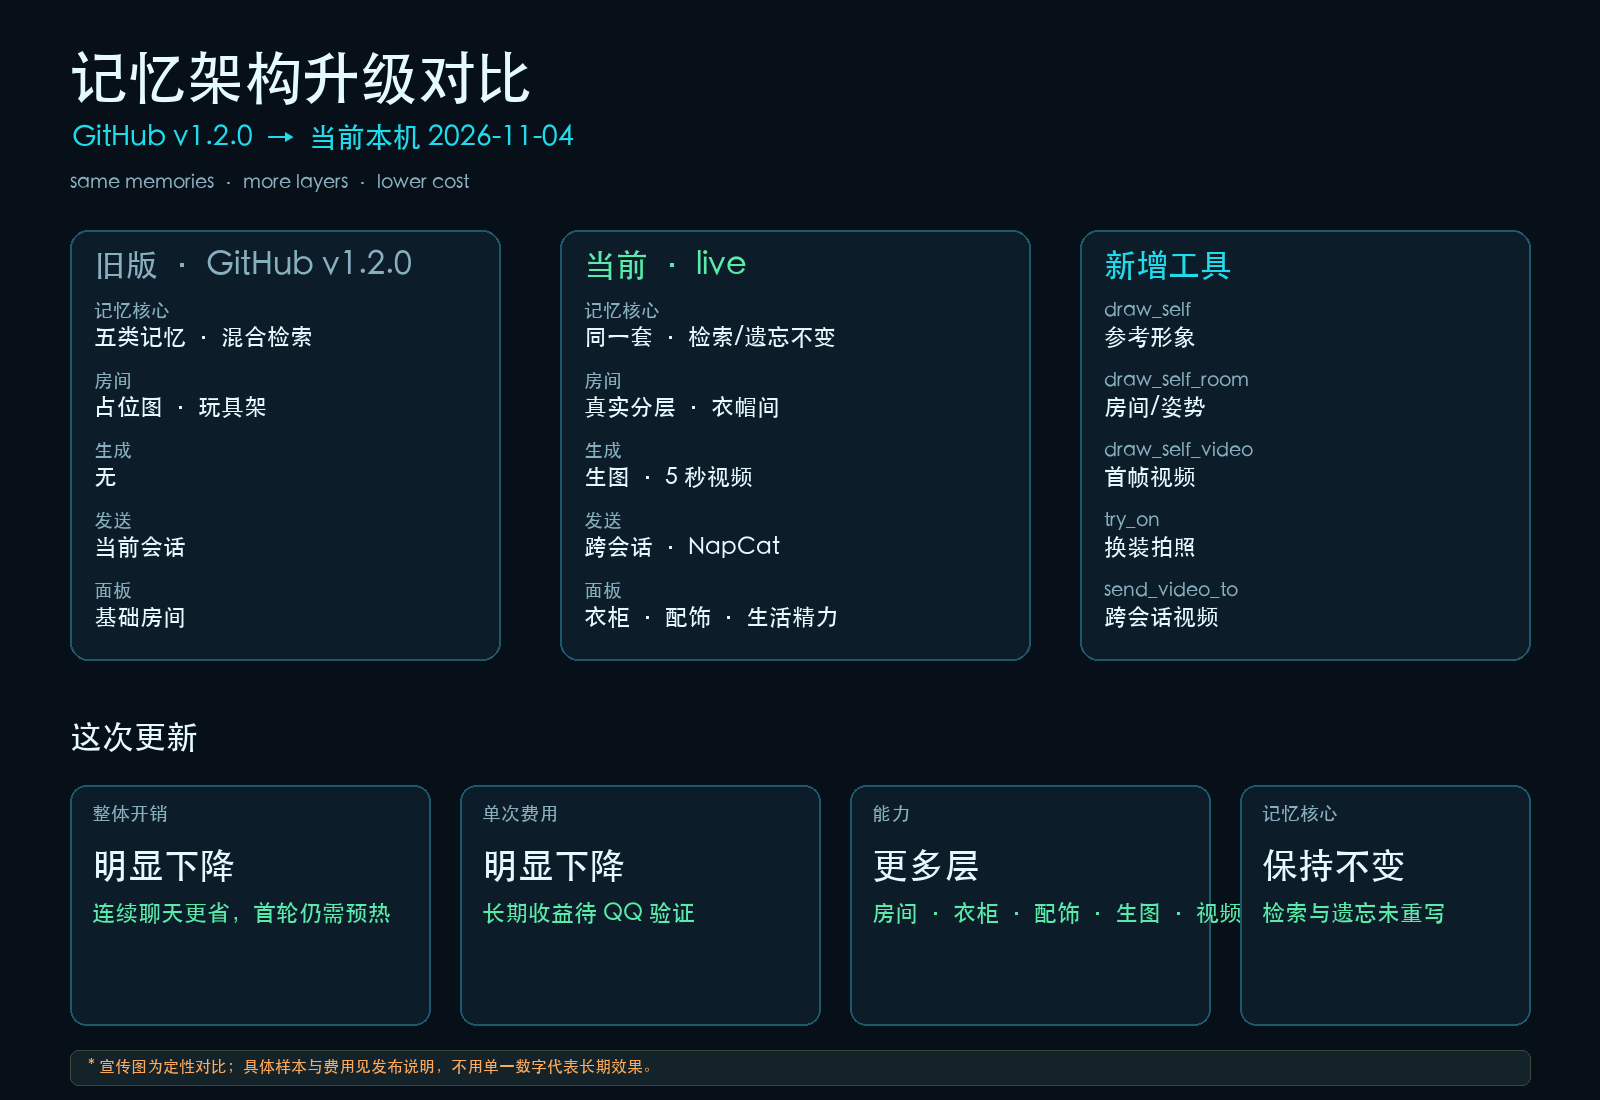
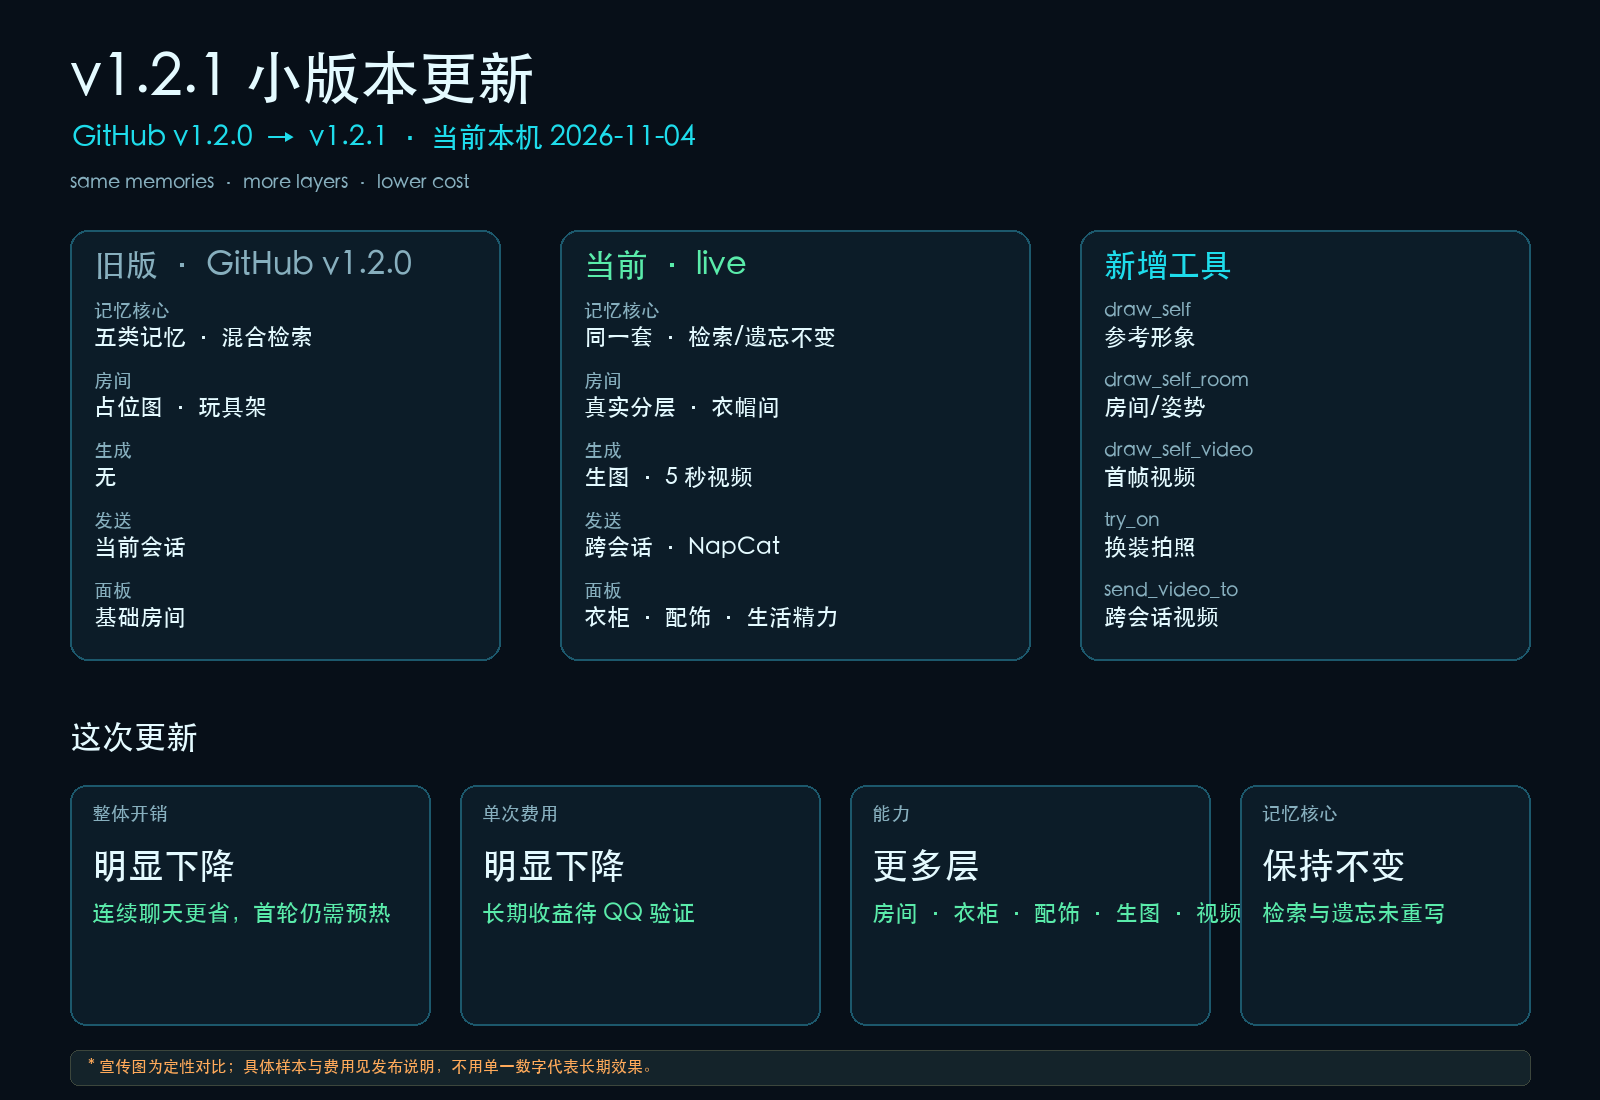
docs: mark v1.2.1 minor update

Changed region(s): [[0.0312, 0.0309, 0.375, 0.1545]]

diff --git a/README.md b/README.md
@@ -5,7 +5,7 @@
 
 ![架构](docs/框架.png)
 
-![v1.2.0 到 live 的升级对比](docs/升级对比-v2.png)
+![v1.2.1 小版本更新对比](docs/升级对比-v2.png)
 
 ## 两种用法
 
